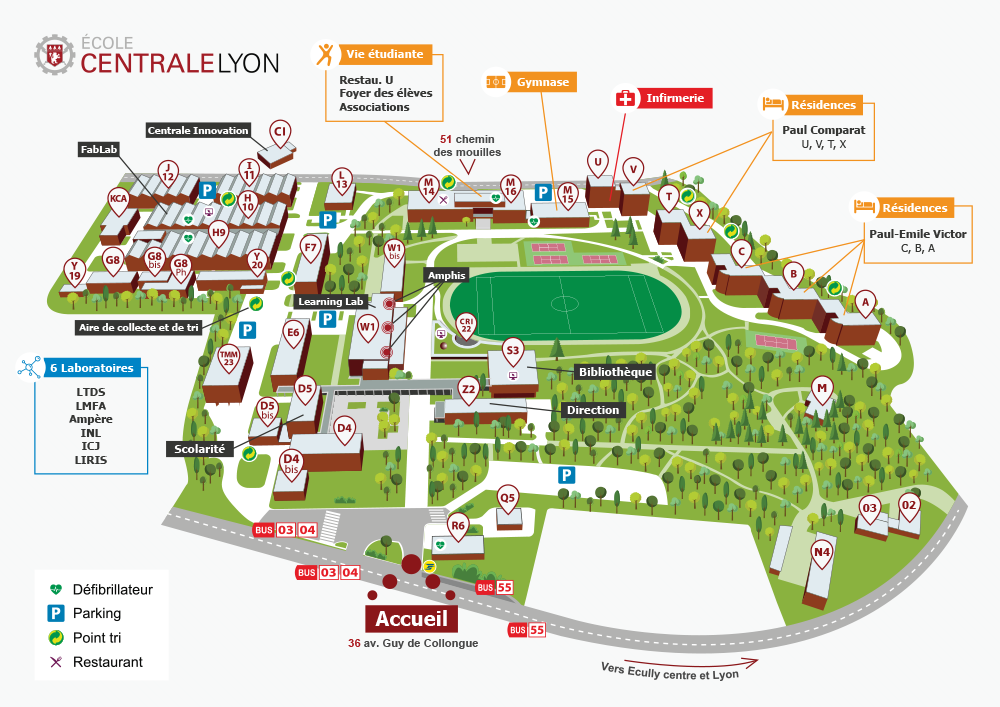
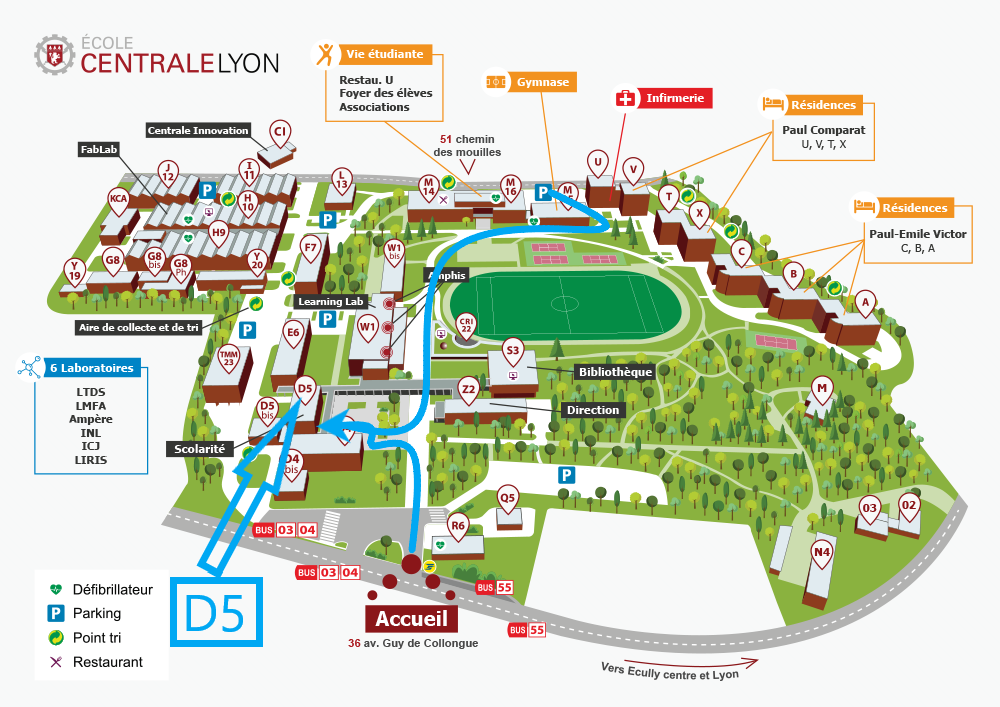
improving access page

diff --git a/acces/index.html b/acces/index.html
@@ -13,10 +13,10 @@
 <meta property="og:url" content="http://localhost:4000/acces/" />
 <meta property="og:site_name" content="Amigo" />
 <script type="application/ld+json">
-{"description":"Plateforme Amigo de l’Ecole Centrale de Lyon","@type":"WebPage","url":"http://localhost:4000/acces/","headline":"Accès","@context":"https://schema.org"}</script>
+{"headline":"Accès","@type":"WebPage","url":"http://localhost:4000/acces/","description":"Plateforme Amigo de l’Ecole Centrale de Lyon","@context":"https://schema.org"}</script>
 <!-- End Jekyll SEO tag -->
 <link rel="stylesheet" href="/assets/main.css"><link type="application/atom+xml" rel="alternate" href="http://localhost:4000/feed.xml" title="Amigo" /></head>
-<body><header class="site-header">
+<body><header class="site-header" role="banner">
 
   <div class="wrapper"><a class="site-title" rel="author" href="/">Amigo</a><nav class="site-nav">
         <input type="checkbox" id="nav-trigger" class="nav-trigger" />
@@ -28,33 +28,10 @@
           </span>
         </label>
 
-        <div class="trigger">
- 		        
-					    
-					    <a>
-								
-								
-								<a class="page-link " href="http://localhost:4000/" >Home</a>
-							</a>
-						
-					    
-					    <a>
-								
-								
-								<a class="page-link " href="http://localhost:4000/cas-etude/" >Cas d'étude</a>
-							</a>
-						
-					    
-					    <a>
-								
-								
-								<a class="page-link " href="http://localhost:4000/contact/" >Contact</a>
-							</a>
-						
-						<!--<a class="page-link" href="/acces/">Accès</a><a class="page-link" href="/cas-etude/">Cas d&#39;étude</a><a class="page-link" href="/contact/">Contact</a>-->
-        </div>
+        <div class="trigger"><a class="page-link" href="/acces/">Accès</a><a class="page-link" href="/cas-etude/">Cas d&#39;étude</a><a class="page-link" href="/contact/">Contact</a></div>
       </nav></div>
-</header><main class="page-content" aria-label="Content">
+</header>
+<main class="page-content" aria-label="Content">
       <div class="wrapper">
         <article class="post">
 
@@ -65,11 +42,30 @@
   <div class="post-content">
     <h1 id="accéder-à-la-plateforme-amigo">Accéder à la plateforme Amigo</h1>
 
-<p>La plateforme Amigo est située sur le campus de l’Ecole Centrale de Lyon à Ecully (<a href="https://www.ec-lyon.fr/campus/vie-campus/acceder-au-campus">comment accéder au campus ?</a> ). Elle se trouve au bâtiment D5 (bâtiment scolarité sur le plan ci-dessous) dans la salle 5228. Une fois arrivé au D5, il suffit de vous rendre au deuxième étage, d’emprunter la porte bleue sur votre droite en haut des escaliers, la plateforme se trouvant au fond du couloir à gauche.</p>
+<p>La plateforme Amigo est située sur le campus de l’Ecole Centrale de Lyon à Ecully (<a href="https://www.ec-lyon.fr/campus/vie-campus/acceder-au-campus">comment accéder au campus ?</a> ). Elle se trouve au bâtiment D5 (bâtiment scolarité sur le plan ci-dessous) dans la salle 5228. Une fois arrivé au D5, il suffit de vous rendre au deuxième étage, d’emprunter la <a href="/img/porte_blanche.png">porte blanche</a> sur votre droite en haut des escaliers, la plateforme se trouvant au fond du couloir à gauche (<a href="/img/porte_bleue.png">photo porte</a>).</p>
 
 <div style="width: 100%; align: middle">
 	<a class="popup" href="/img/web_plan_campus_centrale_lyon_2020.png" title="Plan du campus de l'École Centrale de Lyon"><img alt="Plan du campus de l&amp;#039;École Centrale de Lyon" src="/img/web_plan_campus_centrale_lyon_2020.png" /></a>
 </div>
+
+<div style="width: 100%; overflow: hidden; align: middle">
+	<figure>
+		<table height="400">
+		<tr>
+		<td>
+			<img alt="Porte blanche" src="/img/porte_blanche.png" style="transform:rotate(90deg);" />
+		</td>
+		<td>
+			<img alt="Porte blanche" src="/img/porte_bleue.png" style="transform:rotate(90deg);" />
+		</td>
+		</tr>
+		</table>
+		<figcaption>
+			Porte d'accès au couloir en haut des escaliers (gauche) et porte de la salle Amigo (droite)
+		</figcaption>
+	</figure>
+</div>
+
 
   </div>
 
